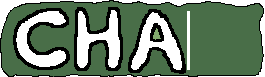
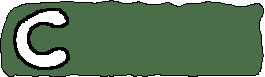
Added title animations and images for sidebars

Changed region(s): [[0.2717, 0.0779, 0.7245, 0.961]]

diff --git a/src/app/platform/chat/page.jsx b/src/app/platform/chat/page.jsx
@@ -1,12 +1,13 @@
 "use client"
 import { useState, useContext, useEffect, useRef, useLayoutEffect } from "react"
 import ThemeContext from "src/assets/ThemeContext.js"
+import Animation from "src/components/Animation"
 
 import { getUniqueMessageID, uploadFilesReq, getOlderMessagesReq } from "backend/requests.js"
 import styles from "styles/platform/Chat.module.css"
 
 function Chat(){
-  const {externalChatRef, sendJsonMessage, roomID, roomIDRef, messagesRef, username, userInfo, userStates, setUserStates, siteHistoryRef} = useContext(ThemeContext)
+  const {externalChatRef, sendJsonMessage, roomID, roomIDRef, messagesRef, username, userInfo, userStates, setUserStates, siteHistoryRef, darkMode} = useContext(ThemeContext)
 
   const mainScrollableRef = useRef(null)
   const lazyLoading = useRef({
@@ -27,8 +28,6 @@ function Chat(){
 
   const [groupedMessages, setGroupedMessages] = useState([])
   const [mappedMessages, setMappedMessages] = useState({})
-
-  const [darkMode, setDarkMode] = useState(false)  
   /*
 
   Message Structure:
@@ -484,28 +483,11 @@ function Chat(){
     }
   }
 
-  // Toggle dark/light mode
-  function toggleAppearance(e){
-    setDarkMode(e.target.checked)
-    const toggleElem = document.querySelector(`.${styles.toggleAppearance}`)
-    if (e.target.checked){ 
-      toggleElem.classList.add(`${styles.enableDarkMode}`)
-    }else{
-      toggleElem.classList.remove(`${styles.enableDarkMode}`)
-    }
-  }
  
   return(
     <div className={styles.chatPage}>
       <h1 className={styles.title}>
-        <img src="/9.png" alt="f" />
-        <label className={styles.toggleAppearance}>
-          <input 
-          type="checkbox"
-          onClick={toggleAppearance}
-          />
-          <span></span>
-        </label>
+        <Animation key={darkMode ? "dark" : "light"} path={darkMode ? "/dark/chat?20" : "/light/chat?20"} type="once" speed={5}/> 
       </h1>
       <section ref={mainScrollableRef} className={styles.chatDisplay}> 
         {
@@ -568,11 +550,9 @@ function Chat(){
               <input ref={filesRef} type="file" multiple hidden
             accept='.png,.jpg,.jpeg,.webp,.docx,.doc,.txt,.csv,.pdf,.odt,.md,.gif,.mp3,.mp4,.html,.zip'/>
             </label>
-
+ 
             <textarea className={styles.chatInput} placeholder="Type new message..." value={newMessage} onChange={(e)=>setNewMessage(e.target.value)}/>
-            <button onClick={handleMessage}>
-            <img src="" alt="send" />
-            </button>
+            <Animation path={"/submit?3"} type="button" speed={20} onClick={handleMessage}/>
           </section>
         }
     </div>

diff --git a/src/components/Animation.jsx b/src/components/Animation.jsx
@@ -1,35 +1,70 @@
 import { useEffect, useRef } from "react"
 
-function Animation({path, type="loop"}){
+function Animation({path, type="loop", speed=1, onClick=null}){
     const imgRef = useRef(null)
     const frame = useRef(0);
 
-    useEffect(()=>{        
+    useEffect(()=>{
         const [folder, numFiles] = path.split("?");
         
         let raf
+        let dt = Date.now()
         const updateImg = ()=>{
-            imgRef.current.src = `${folder}/${frame.current}.png`
-            frame.current += 1
+            if (!imgRef.current){
+                raf = requestAnimationFrame(updateImg)
+                return
+            }
+            const currTime = Date.now()
+            imgRef.current.src = `${folder}/${Math.floor(frame.current)}.png`
+            frame.current += ((currTime - dt) / 1000) * speed
+            dt = currTime
 
             if (frame.current >= Number(numFiles)){
                 frame.current = 0
-                if (type === "once"){ 
+                if (type !== "loop"){ 
                     return
                 }
             }
             raf = requestAnimationFrame(updateImg)
         }
-        updateImg()
+        if (type !== "button"){
+            updateImg()
+        }
+        
 
         return () => {
             cancelAnimationFrame(raf)
         }
     }, [])
 
+    function replay(){
+        onClick()
+        frame.current = 1
+        const [folder, numFiles] = path.split("?");
+        
+        let raf
+        let dt = Date.now()
+        const updateImg = ()=>{
+            const currTime = Date.now()
+            imgRef.current.src = `${folder}/${Math.floor(frame.current)}.png`
+            frame.current += ((currTime - dt) / 1000) * speed
+            dt = currTime
+
+            if (frame.current >= Number(numFiles)){
+                frame.current = 0
+                requestAnimationFrame(()=>{
+                    imgRef.current.src = `${folder}/0.png`
+                })
+                return
+            }
+            raf = requestAnimationFrame(updateImg)
+        }
+        updateImg()
+    }
+    
     return(
         <>
-            <img ref={imgRef} src="" alt="animation"/>
+            <img ref={imgRef} src={`${path.split("?")[0]}/0.png`} onClick={replay} alt="animation"/>
         </>
     )
 }

diff --git a/styles/platform/Chat.module.css b/styles/platform/Chat.module.css
@@ -9,14 +9,13 @@
   transition: color .1s, background-color .1s;
 }
 .title{
+  padding: 5px;
   border-bottom: 1px solid;
   margin: 0; 
-  text-align: center;
-
-  font-family: 'Gill Sans', 'Gill Sans MT', Calibri, 'Trebuchet MS', sans-serif;
-  font-size: 3.5rem;
-
-  position: relative;
+  height: 100px;
+  display: flex;
+  justify-content: center;
+  align-items: end;
 }
 
 .chatDisplay{
@@ -32,42 +31,6 @@
   }
 }
 
-.toggleAppearance{
-  border: 1px solid;
-  display: block;
-  width: 40px;
-  height: 20px;
-  border-radius: 10px;
-  position: relative;
-  background-color: white;
-  transition: background-color .1s, border .1s;
-
-  position: absolute;
-  right: 30px;
-  top: 5px;
-}
-.toggleAppearance span{
-  display: block;
-  position: absolute;
-  top: 0;
-  left: 0;
-  height: 100%;
-  aspect-ratio: 1/1;
-  border-radius: 50%;
-  border: 1px solid;
-  background-color: white;
-  transition: transform .1s;
-}
-.enableDarkMode{
-  background-color: rgb(29, 5, 136);
-  border: 1px solid white;
-}
-.enableDarkMode span{
-  transform: translateX(100%);
-}
-.toggleAppearance input{
-  opacity: 0;
-}
 
 .messageContainer{
   display: flex;

diff --git a/src/app/platform/MainDisplay.jsx b/src/app/platform/MainDisplay.jsx
@@ -17,6 +17,7 @@ function MainDisplay({children, username, initialUserInfo}){
   const [userStates, setUserStates] = useState({
     [username]: {"avatar": initialUserInfo["avatar"]}
   })
+  const [darkMode, setDarkMode] = useState(false)
 
   const messagesRef= useRef([])
   const savedCanvasInfoRef = useRef({
@@ -123,7 +124,7 @@ function MainDisplay({children, username, initialUserInfo}){
   },roomID !== "")
 
   const shared = {
-    siteHistoryRef ,username,userInfo, setUserInfo, userStates, setUserStates,
+    siteHistoryRef ,username,userInfo, setUserInfo, userStates, setUserStates, setDarkMode, darkMode,
     sendJsonMessage, savedCanvasInfoRef, device, callOffers, setCallOffers, callOffersRef, stunCandidates,
     externalWhiteboardRef,externalChatRef, externalGroupcallRef, externalPeercallRef,
     roomID, setRoomID,roomIDRef,
@@ -153,6 +154,7 @@ function MainDisplay({children, username, initialUserInfo}){
     externalWhiteboardRef.current("canvasReceived")
     siteHistoryRef.current["canvasHistoryReceived"] = true;
   }
+
 
   function updateUserStates(data){
     switch (data.type){

diff --git a/src/app/platform/whiteboard/page.jsx b/src/app/platform/whiteboard/page.jsx
@@ -1,14 +1,14 @@
 "use client"
 import { useRef, useEffect, useContext } from "react"
 import ThemeContext from "src/assets/ThemeContext"
-
+import Animation from "src/components/Animation"
 import styles from "styles/platform/Whiteboard.module.css"
 
 import { draw, fill, clear } from "utils/canvasArt.js"
 import { throttle } from "utils/miscellaneous.js"
 
 function Whiteboard(){
-  const {sendJsonMessage, roomID, externalWhiteboardRef, username, savedCanvasInfoRef} = useContext(ThemeContext)
+  const {sendJsonMessage, roomID, externalWhiteboardRef, username, savedCanvasInfoRe, darkMode} = useContext(ThemeContext)
 
   const canvasRef = useRef(null)
   const cxtRef = useRef(null)
@@ -334,7 +334,7 @@ function Whiteboard(){
   return (
     <div className={styles.whiteboardPage}>
       <h1 className={styles.title}>
-        Whiteboard
+        <Animation key={darkMode ? "dark" : "light"} path={darkMode ? "/dark/whiteboard?34" : "/light/whiteboard?34"} type="once" speed={10}/> 
       </h1>
       {roomID &&
       <div className={styles.mainContent}>

diff --git a/src/components/AccountHub.jsx b/src/components/AccountHub.jsx
@@ -10,7 +10,7 @@ import JoinRoom from "./JoinRoom"
 import ChooseImage from "./ChooseImage"
 
 function AccountHub(){
-  const {roomID, setRoomID, username, userInfo, setUserInfo, sendJsonMessage} = useContext(ThemeContext)
+  const {roomID, setRoomID, username, userInfo, setUserInfo, sendJsonMessage, setDarkMode} = useContext(ThemeContext)
   const [isCreatingRoom, setIsCreatingRoom] = useState(false)
   const [isLoadingRoom, setIsLoadingRoom] = useState(false)
 
@@ -19,6 +19,16 @@ function AccountHub(){
   return(
     <div className={styles.accountHub}>
       {roomID}
+        <label className={styles.toggleAppearance}>
+          dark mode
+          <input 
+          type="checkbox"
+          onClick={(e)=>setDarkMode(e.target.checked)
+
+          }
+          /> 
+          <span></span>
+        </label>
       <section className={styles.header}>
         <span className={`profilePic ${styles.changeImage}`} onClick={()=>setIsChangingImage(!isChangingImage)}>
           <img src={userInfo["avatar"]} alt="nth" />

diff --git a/src/app/platform/videochat/page.jsx b/src/app/platform/videochat/page.jsx
@@ -2,15 +2,16 @@
 import React, { useContext, useEffect, useRef, useState } from "react"
 import ThemeContext from "src/assets/ThemeContext"
 import styles from "styles/platform/VideoChat.module.css"
-
+import Animation from "src/components/Animation"
 import { useRouter } from "next/navigation"
 function VideoChat(){
   const router = useRouter()
+  const {darkMode} = useContext(ThemeContext)
 
   return(
     <div className={styles.videochatPage}>
       <h1 className={styles.title}>
-        Videochat 
+        <Animation key={darkMode ? "dark" : "light"} path={darkMode ? "/dark/videochat?18" : "/light/videochat?18"} type="once" speed={4}/> 
       </h1>
       <button onClick={()=>router.push(`/platform/videochat/peercall`)}>Call a Peer</button>
       <button onClick={()=>router.push("/platform/videochat/groupcall")}>Join Group Call</button>
@@ -18,4 +19,4 @@ function VideoChat(){
   )
 }
 
-export default VideoChat
+export default VideoChat 

diff --git a/styles/components/AccountHub.module.css b/styles/components/AccountHub.module.css
@@ -27,3 +27,32 @@
 
 .createRoom{
 } 
+.toggleAppearance{
+  /* border: 1px solid;
+  display: block;
+  width: 40px;
+  height: 20px;
+  border-radius: 10px;
+  position: relative;
+  background-color: white;
+  transition: background-color .1s, border .1s;
+
+  position: absolute;
+  right: 30px;
+  top: 5px; */
+}
+/* .toggleAppearance span{
+  display: block;
+  position: absolute;
+  top: 0;
+  left: 0;
+  height: 100%;
+  aspect-ratio: 1/1;
+  border-radius: 50%;
+  border: 1px solid;
+  background-color: white;
+  transition: transform .1s;
+}
+.toggleAppearance input{
+  opacity: 0;
+} */

diff --git a/styles/platform/Whiteboard.module.css b/styles/platform/Whiteboard.module.css
@@ -6,12 +6,13 @@
   flex: 1;
 }
 .title{
-  border: 1px solid;
-  margin: 0;
-  text-align: center;
-
-  font-family: 'Gill Sans', 'Gill Sans MT', Calibri, 'Trebuchet MS', sans-serif;
-  font-size: 3.5rem;
+  padding: 5px;
+  border-bottom: 1px solid;
+  margin: 0; 
+  height: 100px;
+  display: flex;
+  justify-content: center;
+  align-items: end;
 }
 
 .mainContent{
@@ -22,7 +23,7 @@
 .whiteboardContainer{
   flex: 1;
   position: relative;
-  display: flex;
+  display: flex; 
 }
 .whiteboardScrollable{
   flex: 1;

diff --git a/styles/platform/VideoChat.module.css b/styles/platform/VideoChat.module.css
@@ -6,10 +6,11 @@
   flex: 1;
 }
 .title{
-  border: 1px solid;
+  padding: 5px;
+  border-bottom: 1px solid;
   margin: 0; 
-  text-align: center;
-
-  font-family: 'Gill Sans', 'Gill Sans MT', Calibri, 'Trebuchet MS', sans-serif;
-  font-size: 3.5rem;
+  height: 100px;
+  display: flex;
+  justify-content: center;
+  align-items: end;
 }
